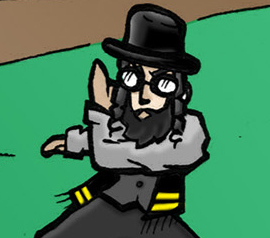
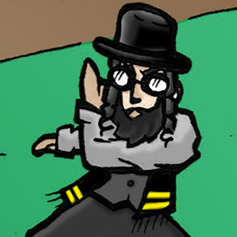
Updates to images and ui

diff --git a/ui.js b/ui.js
@@ -11,9 +11,9 @@ function startNextTurn() {
 	createOptions(results[1], results[2]);
 	
 	if (currentNation.name == "Rothstein") {
-		addAnImage("leader", "Rothstine.png", 200, 200); 
+		addAnImage("leader", "Rothstine.png", 237, 237); 
 	} else if (currentNation.name == "Sauria") {
-		addAnImage("leader", "Saurian.png", 200, 200) ;
+		addAnImage("leader", "Saurian.png", 237, 237);
 	}
 }
 
@@ -44,11 +44,8 @@ function addButton(text, refFnct) {
 
 function addAnImage(targetId, src, width, height) {
     var img;
-
-    img = document.createElement('img');
-    img.src = src;
+    img = document.getElementById(targetId);
+	img.src = src;
     img.style.width  = width  + "px";
     img.style.height = height + "px";
-    target = document.getElementById(targetId);
-    target.innerHTML = img.innerHTML;
 }
